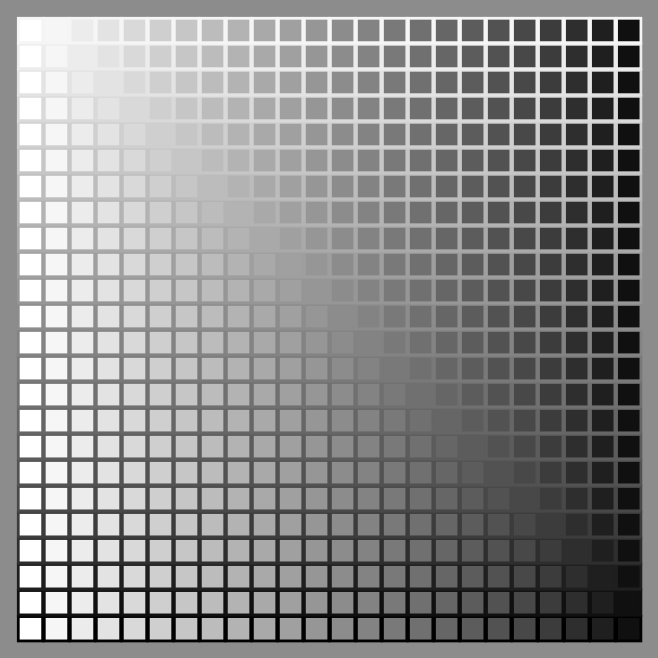
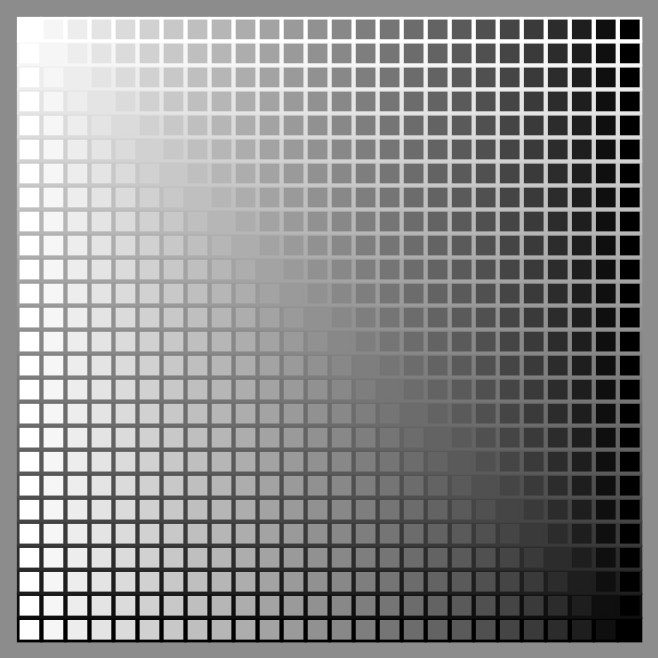
fix colour scale

diff --git a/js/plotFunctions/Windows.js b/js/plotFunctions/Windows.js
@@ -18,13 +18,13 @@ function windowsPlot() {
   const yGroups = [...labels].reverse(); 
 
   let colour = d3.scaleSequential()
-    .domain([0, n])
+    .domain([0, n-1])
     .interpolator(d3.interpolateRgbBasis(config.style.colPalette));
 
   let reversedPalette = config.style.colPalette.slice().reverse();
 
   let revColour = d3.scaleSequential()
-    .domain([0, n])
+    .domain([0, n-1])
     .interpolator(d3.interpolateRgbBasis(reversedPalette));
 
   const chartContainer = d3.select("#plot")
